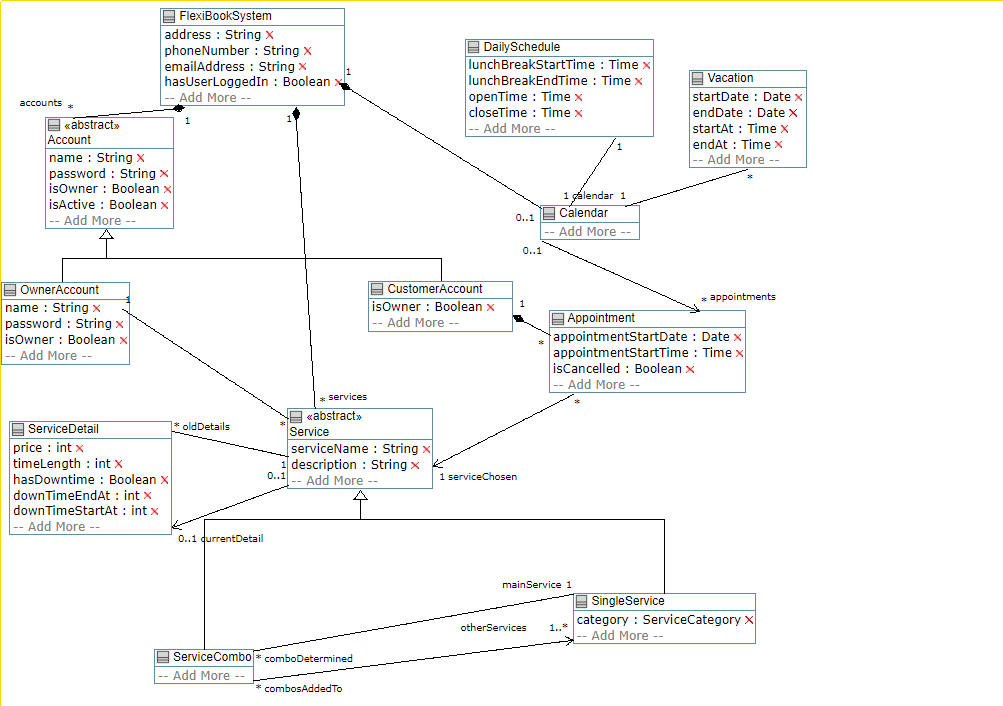
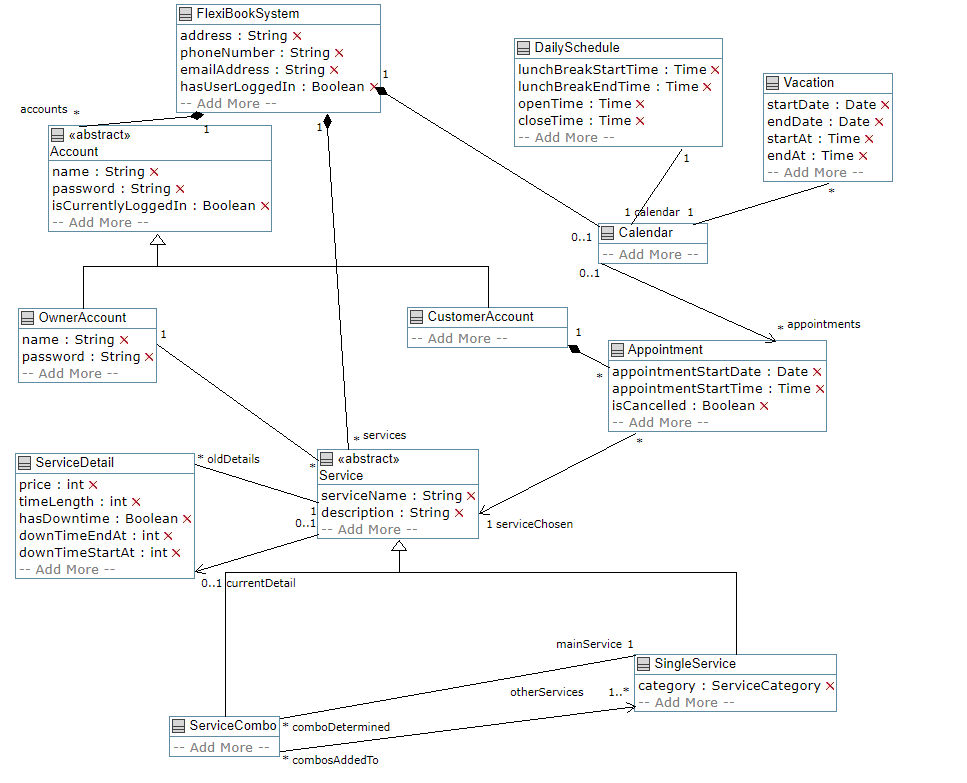
v 1.1 changed 2 confusing boolean :shiny:

diff --git a/ca/mcgill/ecse223/flexibook/model/Account.java b/ca/mcgill/ecse223/flexibook/model/Account.java
@@ -5,7 +5,7 @@ package ca.mcgill.ecse223.flexibook.model;
 import java.util.*;
 
 // line 19 "../../../../../Domain Model v1.1.ump"
-// line 129 "../../../../../Domain Model v1.1.ump"
+// line 120 "../../../../../Domain Model v1.1.ump"
 public abstract class Account
 {
 
@@ -22,8 +22,7 @@ public abstract class Account
   //Account Attributes
   private String name;
   private String password;
-  private boolean isOwner;
-  private boolean isActive;
+  private boolean isCurrentlyLoggedIn;
 
   //Account Associations
   private FlexiBookSystem flexiBookSystem;
@@ -32,11 +31,10 @@ public abstract class Account
   // CONSTRUCTOR
   //------------------------
 
-  public Account(String aName, String aPassword, boolean aIsOwner, boolean aIsActive, FlexiBookSystem aFlexiBookSystem)
+  public Account(String aName, String aPassword, boolean aIsCurrentlyLoggedIn, FlexiBookSystem aFlexiBookSystem)
   {
     password = aPassword;
-    isOwner = aIsOwner;
-    isActive = aIsActive;
+    isCurrentlyLoggedIn = aIsCurrentlyLoggedIn;
     if (!setName(aName))
     {
       throw new RuntimeException("Cannot create due to duplicate name. See http://manual.umple.org?RE003ViolationofUniqueness.html");
@@ -79,18 +77,10 @@ public abstract class Account
     return wasSet;
   }
 
-  public boolean setIsOwner(boolean aIsOwner)
+  public boolean setIsCurrentlyLoggedIn(boolean aIsCurrentlyLoggedIn)
   {
     boolean wasSet = false;
-    isOwner = aIsOwner;
-    wasSet = true;
-    return wasSet;
-  }
-
-  public boolean setIsActive(boolean aIsActive)
-  {
-    boolean wasSet = false;
-    isActive = aIsActive;
+    isCurrentlyLoggedIn = aIsCurrentlyLoggedIn;
     wasSet = true;
     return wasSet;
   }
@@ -115,24 +105,14 @@ public abstract class Account
     return password;
   }
 
-  public boolean getIsOwner()
+  public boolean getIsCurrentlyLoggedIn()
   {
-    return isOwner;
-  }
-
-  public boolean getIsActive()
-  {
-    return isActive;
+    return isCurrentlyLoggedIn;
   }
   /* Code from template attribute_IsBoolean */
-  public boolean isIsOwner()
+  public boolean isIsCurrentlyLoggedIn()
   {
-    return isOwner;
-  }
-  /* Code from template attribute_IsBoolean */
-  public boolean isIsActive()
-  {
-    return isActive;
+    return isCurrentlyLoggedIn;
   }
   /* Code from template association_GetOne */
   public FlexiBookSystem getFlexiBookSystem()
@@ -176,8 +156,7 @@ public abstract class Account
     return super.toString() + "["+
             "name" + ":" + getName()+ "," +
             "password" + ":" + getPassword()+ "," +
-            "isOwner" + ":" + getIsOwner()+ "," +
-            "isActive" + ":" + getIsActive()+ "]" + System.getProperties().getProperty("line.separator") +
+            "isCurrentlyLoggedIn" + ":" + getIsCurrentlyLoggedIn()+ "]" + System.getProperties().getProperty("line.separator") +
             "  " + "flexiBookSystem = "+(getFlexiBookSystem()!=null?Integer.toHexString(System.identityHashCode(getFlexiBookSystem())):"null");
   }
 }

diff --git a/ca/mcgill/ecse223/flexibook/model/OwnerAccount.java b/ca/mcgill/ecse223/flexibook/model/OwnerAccount.java
@@ -4,8 +4,8 @@
 package ca.mcgill.ecse223.flexibook.model;
 import java.util.*;
 
-// line 30 "../../../../../Domain Model v1.1.ump"
-// line 134 "../../../../../Domain Model v1.1.ump"
+// line 29 "../../../../../Domain Model v1.1.ump"
+// line 125 "../../../../../Domain Model v1.1.ump"
 public class OwnerAccount extends Account
 {
 
@@ -16,7 +16,6 @@ public class OwnerAccount extends Account
   //OwnerAccount Attributes
   private String name;
   private String password;
-  private boolean isOwner;
 
   //OwnerAccount Associations
   private List<Service> services;
@@ -25,12 +24,11 @@ public class OwnerAccount extends Account
   // CONSTRUCTOR
   //------------------------
 
-  public OwnerAccount(String aName, String aPassword, boolean aIsOwner, boolean aIsActive, FlexiBookSystem aFlexiBookSystem)
+  public OwnerAccount(String aName, String aPassword, boolean aIsCurrentlyLoggedIn, FlexiBookSystem aFlexiBookSystem)
   {
-    super(aName, aPassword, aIsOwner, aIsActive, aFlexiBookSystem);
+    super(aName, aPassword, aIsCurrentlyLoggedIn, aFlexiBookSystem);
     resetName();
     resetPassword();
-    resetIsOwner();
     services = new ArrayList<Service>();
   }
 
@@ -69,22 +67,6 @@ public class OwnerAccount extends Account
     wasReset = true;
     return wasReset;
   }
-  /* Code from template attribute_SetDefaulted */
-  public boolean setIsOwner(boolean aIsOwner)
-  {
-    boolean wasSet = false;
-    isOwner = aIsOwner;
-    wasSet = true;
-    return wasSet;
-  }
-
-  public boolean resetIsOwner()
-  {
-    boolean wasReset = false;
-    isOwner = getDefaultIsOwner();
-    wasReset = true;
-    return wasReset;
-  }
 
   public String getName()
   {
@@ -104,21 +86,6 @@ public class OwnerAccount extends Account
   public String getDefaultPassword()
   {
     return "Owner";
-  }
-
-  public boolean getIsOwner()
-  {
-    return isOwner;
-  }
-  /* Code from template attribute_GetDefaulted */
-  public boolean getDefaultIsOwner()
-  {
-    return true;
-  }
-  /* Code from template attribute_IsBoolean */
-  public boolean isIsOwner()
-  {
-    return isOwner;
   }
   /* Code from template association_GetMany */
   public Service getService(int index)
@@ -235,7 +202,6 @@ public class OwnerAccount extends Account
   {
     return super.toString() + "["+
             "name" + ":" + getName()+ "," +
-            "password" + ":" + getPassword()+ "," +
-            "isOwner" + ":" + getIsOwner()+ "]";
+            "password" + ":" + getPassword()+ "]";
   }
 }

diff --git a/ca/mcgill/ecse223/flexibook/model/CustomerAccount.java b/ca/mcgill/ecse223/flexibook/model/CustomerAccount.java
@@ -6,17 +6,14 @@ import java.util.*;
 import java.sql.Date;
 import java.sql.Time;
 
-// line 38 "../../../../../Domain Model v1.1.ump"
-// line 139 "../../../../../Domain Model v1.1.ump"
+// line 37 "../../../../../Domain Model v1.1.ump"
+// line 130 "../../../../../Domain Model v1.1.ump"
 public class CustomerAccount extends Account
 {
 
   //------------------------
   // MEMBER VARIABLES
   //------------------------
-
-  //CustomerAccount Attributes
-  private boolean isOwner;
 
   //CustomerAccount Associations
   private List<Appointment> appointments;
@@ -25,47 +22,15 @@ public class CustomerAccount extends Account
   // CONSTRUCTOR
   //------------------------
 
-  public CustomerAccount(String aName, String aPassword, boolean aIsOwner, boolean aIsActive, FlexiBookSystem aFlexiBookSystem)
+  public CustomerAccount(String aName, String aPassword, boolean aIsCurrentlyLoggedIn, FlexiBookSystem aFlexiBookSystem)
   {
-    super(aName, aPassword, aIsOwner, aIsActive, aFlexiBookSystem);
-    resetIsOwner();
+    super(aName, aPassword, aIsCurrentlyLoggedIn, aFlexiBookSystem);
     appointments = new ArrayList<Appointment>();
   }
 
   //------------------------
   // INTERFACE
   //------------------------
-  /* Code from template attribute_SetDefaulted */
-  public boolean setIsOwner(boolean aIsOwner)
-  {
-    boolean wasSet = false;
-    isOwner = aIsOwner;
-    wasSet = true;
-    return wasSet;
-  }
-
-  public boolean resetIsOwner()
-  {
-    boolean wasReset = false;
-    isOwner = getDefaultIsOwner();
-    wasReset = true;
-    return wasReset;
-  }
-
-  public boolean getIsOwner()
-  {
-    return isOwner;
-  }
-  /* Code from template attribute_GetDefaulted */
-  public boolean getDefaultIsOwner()
-  {
-    return false;
-  }
-  /* Code from template attribute_IsBoolean */
-  public boolean isIsOwner()
-  {
-    return isOwner;
-  }
   /* Code from template association_GetMany */
   public Appointment getAppointment(int index)
   {
@@ -181,10 +146,4 @@ public class CustomerAccount extends Account
     super.delete();
   }
 
-
-  public String toString()
-  {
-    return super.toString() + "["+
-            "isOwner" + ":" + getIsOwner()+ "]";
-  }
 }

diff --git a/ca/mcgill/ecse223/flexibook/model/Appointment.java b/ca/mcgill/ecse223/flexibook/model/Appointment.java
@@ -5,8 +5,8 @@ package ca.mcgill.ecse223.flexibook.model;
 import java.sql.Date;
 import java.sql.Time;
 
-// line 68 "../../../../../Domain Model v1.1.ump"
-// line 163 "../../../../../Domain Model v1.1.ump"
+// line 64 "../../../../../Domain Model v1.1.ump"
+// line 154 "../../../../../Domain Model v1.1.ump"
 public class Appointment
 {
 

diff --git a/ca/mcgill/ecse223/flexibook/model/Vacation.java b/ca/mcgill/ecse223/flexibook/model/Vacation.java
@@ -5,8 +5,8 @@ package ca.mcgill.ecse223.flexibook.model;
 import java.sql.Date;
 import java.sql.Time;
 
-// line 60 "../../../../../Domain Model v1.1.ump"
-// line 157 "../../../../../Domain Model v1.1.ump"
+// line 56 "../../../../../Domain Model v1.1.ump"
+// line 148 "../../../../../Domain Model v1.1.ump"
 public class Vacation
 {
 

diff --git a/ca/mcgill/ecse223/flexibook/model/SingleService.java b/ca/mcgill/ecse223/flexibook/model/SingleService.java
@@ -4,8 +4,8 @@
 package ca.mcgill.ecse223.flexibook.model;
 import java.util.*;
 
-// line 91 "../../../../../Domain Model v1.1.ump"
-// line 177 "../../../../../Domain Model v1.1.ump"
+// line 82 "../../../../../Domain Model v1.1.ump"
+// line 168 "../../../../../Domain Model v1.1.ump"
 public class SingleService extends Service
 {
 

diff --git a/ca/mcgill/ecse223/flexibook/model/ServiceCombo.java b/ca/mcgill/ecse223/flexibook/model/ServiceCombo.java
@@ -4,8 +4,8 @@
 package ca.mcgill.ecse223.flexibook.model;
 import java.util.*;
 
-// line 99 "../../../../../Domain Model v1.1.ump"
-// line 184 "../../../../../Domain Model v1.1.ump"
+// line 90 "../../../../../Domain Model v1.1.ump"
+// line 175 "../../../../../Domain Model v1.1.ump"
 public class ServiceCombo extends Service
 {
 

diff --git a/ca/mcgill/ecse223/flexibook/model/Service.java b/ca/mcgill/ecse223/flexibook/model/Service.java
@@ -4,8 +4,8 @@
 package ca.mcgill.ecse223.flexibook.model;
 import java.util.*;
 
-// line 84 "../../../../../Domain Model v1.1.ump"
-// line 171 "../../../../../Domain Model v1.1.ump"
+// line 75 "../../../../../Domain Model v1.1.ump"
+// line 162 "../../../../../Domain Model v1.1.ump"
 public abstract class Service
 {
 

diff --git a/ca/mcgill/ecse223/flexibook/model/DailySchedule.java b/ca/mcgill/ecse223/flexibook/model/DailySchedule.java
@@ -4,8 +4,8 @@
 package ca.mcgill.ecse223.flexibook.model;
 import java.sql.Time;
 
-// line 52 "../../../../../Domain Model v1.1.ump"
-// line 151 "../../../../../Domain Model v1.1.ump"
+// line 48 "../../../../../Domain Model v1.1.ump"
+// line 142 "../../../../../Domain Model v1.1.ump"
 public class DailySchedule
 {
 

diff --git a/ca/mcgill/ecse223/flexibook/model/Calendar.java b/ca/mcgill/ecse223/flexibook/model/Calendar.java
@@ -6,8 +6,8 @@ import java.util.*;
 import java.sql.Time;
 import java.sql.Date;
 
-// line 46 "../../../../../Domain Model v1.1.ump"
-// line 144 "../../../../../Domain Model v1.1.ump"
+// line 42 "../../../../../Domain Model v1.1.ump"
+// line 135 "../../../../../Domain Model v1.1.ump"
 public class Calendar
 {
 

diff --git a/ca/mcgill/ecse223/flexibook/model/ServiceDetail.java b/ca/mcgill/ecse223/flexibook/model/ServiceDetail.java
@@ -3,8 +3,8 @@
 
 package ca.mcgill.ecse223.flexibook.model;
 
-// line 103 "../../../../../Domain Model v1.1.ump"
-// line 189 "../../../../../Domain Model v1.1.ump"
+// line 94 "../../../../../Domain Model v1.1.ump"
+// line 180 "../../../../../Domain Model v1.1.ump"
 public class ServiceDetail
 {
 

diff --git a/ca/mcgill/ecse223/flexibook/model/FlexiBookSystem.java b/ca/mcgill/ecse223/flexibook/model/FlexiBookSystem.java
@@ -5,7 +5,7 @@ package ca.mcgill.ecse223.flexibook.model;
 import java.util.*;
 
 // line 5 "../../../../../Domain Model v1.1.ump"
-// line 121 "../../../../../Domain Model v1.1.ump"
+// line 112 "../../../../../Domain Model v1.1.ump"
 public class FlexiBookSystem
 {
 
